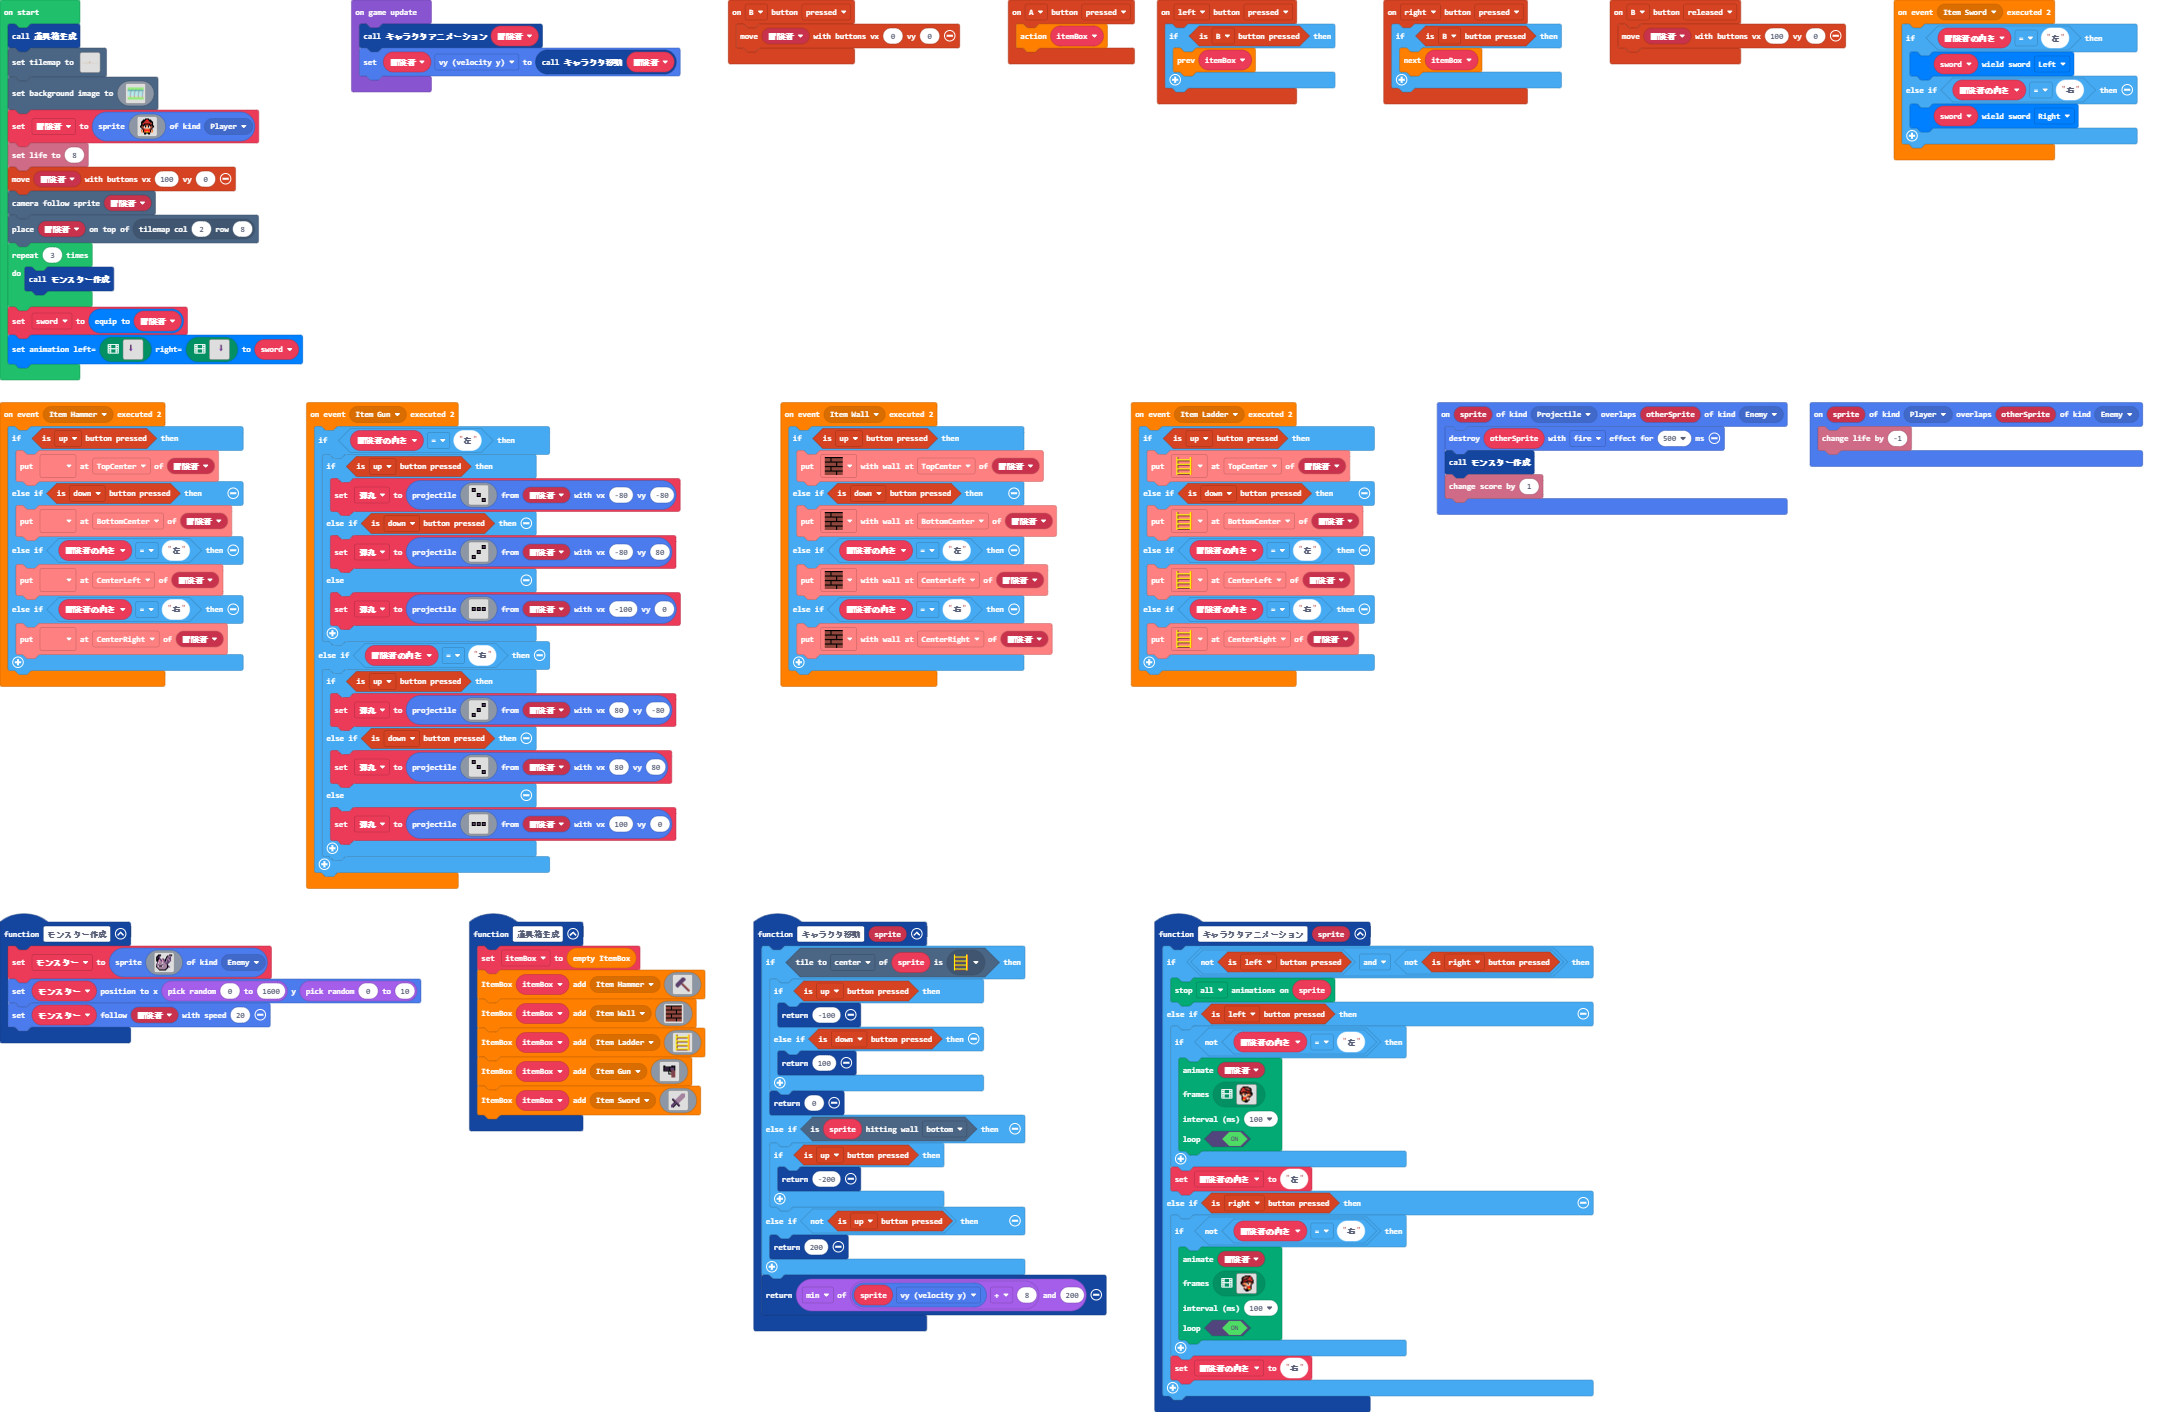
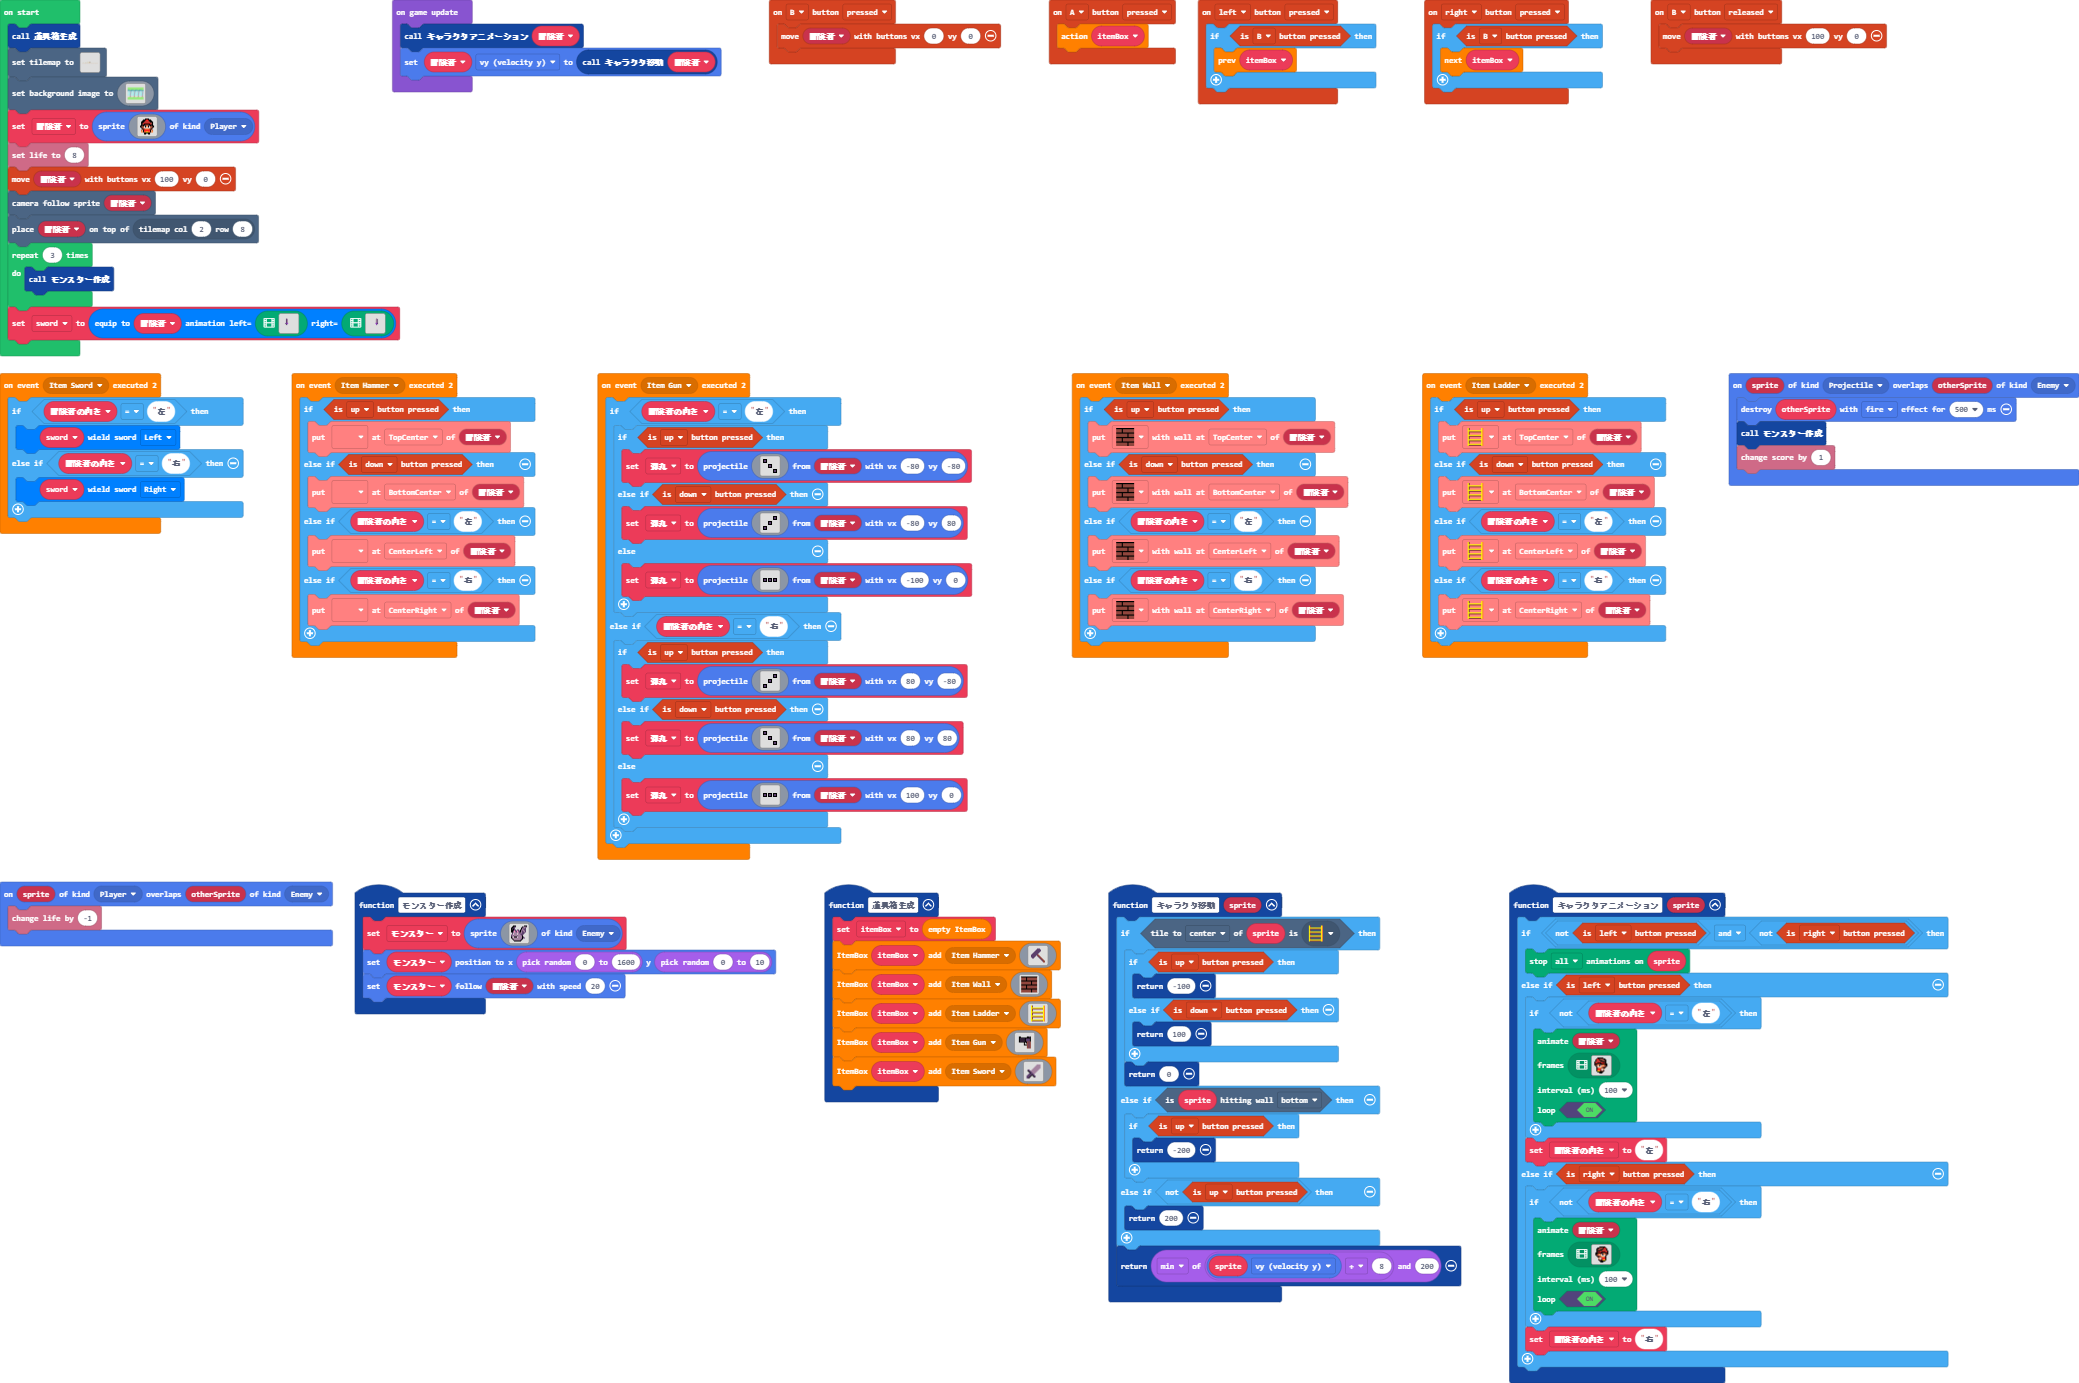
Update main.blocks, main.ts, weapons.ts

diff --git a/weapons.ts b/weapons.ts
@@ -80,11 +80,13 @@ namespace weapons.sword {
 
 //% blockNamespace=Weapons color="#0080FF"
 namespace weapons.factory {
-    //% block="equip to $target"
+    //% block="equip to $target animation left=$leftAnim=animation_editor right=$rightAnim=animation_editor"
     //% blockSetVariable=sword
-    export function equipSword(target: Sprite): weapons.sword.Sword {
+    export function equipSword(target: Sprite, leftAnim: Image[], rightAnim: Image[]): weapons.sword.Sword {
         let sword = new weapons.sword.Sword(target);
+        sword.setAnimation(leftAnim, rightAnim);
         sword._run();
         return sword;
     }    
+
 }

diff --git a/main.ts b/main.ts
@@ -457,8 +457,7 @@ tiles.placeOnTile(冒険者, tiles.getTileLocation(2, 8))
 for (let index = 0; index < 3; index++) {
     モンスター作成()
 }
-sword = weapons.factory.equipSword(冒険者)
-sword.setAnimation(assets.animation`sword_left_anim`, assets.animation`sword_right_anim`)
+sword = weapons.factory.equipSword(冒険者, assets.animation`sword_left_anim`, assets.animation`sword_right_anim`)
 game.onUpdate(function () {
     キャラクタアニメーション(冒険者)
     冒険者.vy = キャラクタ移動(冒険者)
